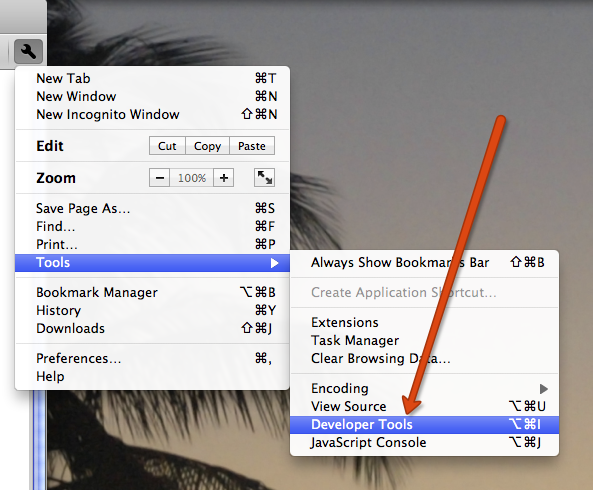
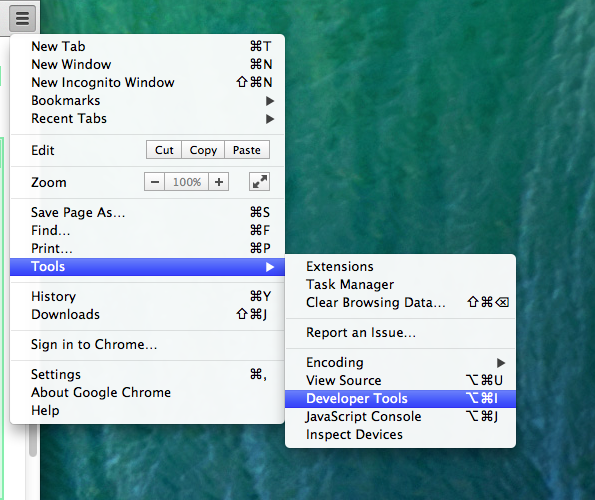
Updates Audit Panel article

diff --git a/content/tutorials/developertools/auditpanel/en/index.html b/content/tutorials/developertools/auditpanel/en/index.html
@@ -24,6 +24,11 @@
   article section img {
     border: 1px solid #ccc;
   }
+
+  .talkinghead:before {
+    background-image: url(/static/images/profiles/75/addyosmani.75.png);
+    background-position: -14px -9px !important;
+  }
 </style>
 {% endblock %}
 
@@ -32,51 +37,54 @@
 {% block content %}
 <h2 id="toc-intro">Introduction</h2>
 
+<blockquote class="commentary talkinghead" id="pagespeed-extension"><strong>Update</strong>: Feel free to use the DevTools Audits Panel, but for hunting down serious performance issues, you'll find the records from the <a href="https://developers.google.com/speed/pagespeed/insights_extensions">Pagespeed Insights DevTools extension</a> more useful.</blockquote>
+
 <p>
   A fast web app is a successful web app.  Your job as a developer is not done until you have optimized both the real and perceived performance of your app.  Not only is it simply the right thing to do to ensure your users have an excellent experience, but there are very practical and important business reasons to optimize.  Amazon measured a 1% drop in sales for every 100ms of site latency, and Google measured a 20% drop in traffic for every 0.5 second delay (<a href="http://www.scribd.com/doc/4970486/Make-Data-Useful-by-Greg-Linden-Amazoncom">citation</a>).  Those are real numbers with real implications for your business and web app.
 </p>
 
 <p>
-  Web speed is so important, Google even has an entire effort devoted to <a href="http://code.google.com/speed/">making the web faster</a>.  If you need yet another reason to optimize your app performance, <a href="http://googlewebmastercentral.blogspot.com/2010/04/using-site-speed-in-web-search-ranking.html">Google has announced they are adding page speed to their ranking algorithm</a>.
+  Web speed is so important, Google even has an entire effort devoted to <a href="http://code.google.com/speed/">making the web faster</a>.  If you need yet another reason to optimize your app performance, <a href="http://googlewebmastercentral.blogspot.com/2010/04/using-site-speed-in-web-search-ranking.html">Google announced page speed was added to their ranking algorithm</a>.
 </p>
 
 <p>
   There are many published best practices for optimizing the performance of your web app, including two great books (<a href="http://oreilly.com/catalog/9780596529307/">High Performance Web Sites</a> and <a href="http://oreilly.com/catalog/9780596522308/">Even Faster Web Sites</a>).  Techniques on the server (implement the correct cache control headers) and on the client (provide image width and height attributes) are combined into an end to end strategy for optimizing performance.  With so many tips and tricks, it's sometimes difficult to gauge how they all map to real life and your real web app.
 </p>
 
-Luckily, the Chrome Developer Tools (included in every instance of Chrome), provides an excellent tool which inspects your web app and offers customized recommendations to enhance performance and reduce latency.  This article will cover the Audit Panel, which is similar in scope to the very popular <a href="http://developer.yahoo.com/yslow/">YSlow</a> tool, and how you can use it to speed up your website, decrease latency, and increase user satisfaction.
+<p>
+Luckily, the <a href="http://devtools.chrome.com">Chrome DevTools</a> (included in every instance of Chrome), provides an excellent tool which inspects your web app and offers customized recommendations to enhance performance and reduce latency.  This article will cover the Audits Panel, which is similar in scope to the very popular <a href="http://developer.yahoo.com/yslow/">YSlow</a> tool, and how you can use it to speed up your website, decrease latency, and increase user satisfaction.
 </p>
 
 <p>
-Note, the Audit Panel tool is currently only available in Chrome, but we expect that other WebKit browsers will eventually integrate it.
+Note, the Audits Panel tool is currently only available in Chrome, but we expect that other WebKit browsers will eventually integrate it.
 </p>
 
 <h2 id="toc-getting-started">Getting Started</h2>
 
 <p>
-  To illustrate how the Audit Panel can recommend web app performance improvements, we'll turn the tool towards our very own <a href="http://www.html5rocks.com/">www.html5rocks.com</a>.  We'll use the Audit Panel to help make our site even faster.
+  To illustrate how the Audits Panel can recommend web app performance improvements, we'll turn the tool towards our very own <a href="http://www.html5rocks.com/">www.html5rocks.com</a>.  We'll use the Audits Panel to help make our site even faster.
 </p>
 
 <p>
-Starting Developer Tools is as easy as using the wrench icon (upper right of the Chrome window) and selecting Tool, Developer Tools.
+Starting DevTools is as easy as using the Chrome icon (upper right of the Chrome window) and selecting Tools > Developer Tools.
 </p>
 
 <figure class="center">
   <img src="/static/images/screenshots/auditpanel/index.001.png" width="593" height="490">
-  <figcaption>The Developer Tools are accessible in the Wrench menu.</figcaption>
+  <figcaption>The DevTools are accessible in the Chrome menu.</figcaption>
 </figure>
 
 <p>
-  For more information on how to get started with Developer Tools, please read <a href="http://www.html5rocks.com/tutorials/developertools/part1/">Introduction to Chrome Developer Tools, Part One</a>.
+  For more information on how to get started with DevTools, please read <a href="http://devtools.chrome.com">the official documentation</a>.
 </p>
 
 <p>
-The Audit Panel is located in the main tools button panel.  You'll notice that, once selected, the Audit Panel has not yet run through its analysis of your web app.  Running all of the heuristics can be slow, especially for a large web app such as GMail, so the tool is disabled by default.
+The Audits Panel is located in the main tools button panel.  You'll notice that, once selected, the Audits Panel has not yet run through its analysis of your web app.  Running all of the heuristics can be slow, especially for a large web app such as GMail, so the tool is disabled by default.
 </p>
 
 <figure class="center">
-  <img src="/static/images/screenshots/auditpanel/index.002.png" width="458" height="373">
-  <figcaption>Audit Panel</figcaption>
+  <img src="/static/images/screenshots/auditpanel/index.002.png">
+  <figcaption>Audits Panel</figcaption>
 </figure>
 
 <p>
@@ -84,12 +92,12 @@ The Audit Panel is located in the main tools button panel.  You'll notice that, 
 </p>
 
 <figure class="center">
-  <img src="/static/images/screenshots/auditpanel/index.003.png" width="492" height="251">
-  <figcaption>Recommendations of performance improvements from the Audit Panel.</figcaption>
+  <img src="/static/images/screenshots/auditpanel/index.003.png">
+  <figcaption>Recommendations of performance improvements from the Audits Panel.</figcaption>
 </figure>
 
 <p>
-  You'll notice that the Audit Panel classifies the suggestions by severity, with the most severe marked with a red dot, and the medium severity suggestions marked with a yellow dot.  This color coding helps you prioritize the suggestions, focusing on the most important (and biggest gains) first.
+  You'll notice that the Audits Panel classifies the suggestions by severity, with the most severe marked with a red dot, and the medium severity suggestions marked with a yellow dot.  This color coding helps you prioritize the suggestions, focusing on the most important (and biggest gains) first.
 </p>
 
 <p>
@@ -103,11 +111,11 @@ The number in parenthesis, following the suggestion, is how many instances the A
 </p>
 
 <p>
-  The Audit Panel groups its suggestions into two categories, Network Utilization and Web Page Performance.
+  The Audits Panel groups its suggestions into two categories, Network Utilization and Web Page Performance.
 </p>
 
 <p>
-According to the Audit Panel, to improve Network Utilization we should:
+According to the Audits Panel, to improve Network Utilization we should:
 </p>
 
 <ul>
@@ -138,8 +146,8 @@ According to the Audit Panel, to improve Network Utilization we should:
 </p>
 
 <figure class="center">
-  <img src="/static/images/screenshots/auditpanel/index.004.png" width="501" height="376">
-  <figcaption>The Audit Panel gives you recommendations for performance improvements.</figcaption>
+  <img src="/static/images/screenshots/auditpanel/index.004.png">
+  <figcaption>The Audits Panel gives you recommendations for performance improvements.</figcaption>
 </figure>
 
 <ul>
@@ -161,7 +169,7 @@ According to the Audit Panel, to improve Network Utilization we should:
 <h2 id="toc-fixing-non-cacheable-resources">Fixing Non-Cacheable Resources</h2>
 
 <p>
-  Let's look at one recommendation in depth, and learn how to connect the Audit recommendation to other tools inside Developer Tools.  Specifically, let's look at how to fix "the following resources are explicitly non-cacheable."
+  Let's look at one recommendation in depth, and learn how to connect the Audit recommendation to other tools inside DevTools.  Specifically, let's look at how to fix "the following resources are explicitly non-cacheable."
 </p>
 
 <p>
@@ -169,12 +177,12 @@ Because caching is accomplished via the HTTP protocol, we need to look at the HT
 </p>
 
 <figure class="center">
-  <img src="/static/images/screenshots/auditpanel/index.005.png" width="456" height="418">
+  <img src="/static/images/screenshots/auditpanel/index.005.png">
   <figcaption>Navigating the recommendations.</figcaption>
 </figure>
 
 <p>
-  You are then taken to the Resources Panel with the contents of the resources in view.  Click the Headers tab, next to Content, to view the headers used in the request and the response.
+  You are then taken to the Network, Resources or Sources panel (depending on the type of resource clicked) with further information. In this case we will be taken to the Network panel.
 </p>
 
 <figure class="center">
@@ -183,11 +191,11 @@ Because caching is accomplished via the HTTP protocol, we need to look at the HT
 </figure>
 
 <p>
-  We are trying to confirm that the server has told the client "do not cache the homepage of html5rocks.com".  To do this, we need to look at the Response Headers, as these are the headers and instructions sent by the server.
+  We are trying to confirm that the server has told the client "do not cache the homepage of html5rocks.com".  To do this, we click on the resource to look at the Response Headers, as these are the headers and instructions sent by the server.
 </p>
 
 <figure class="center">
-  <img src="/static/images/screenshots/auditpanel/index.007.png" width="478" height="384">
+  <img src="/static/images/screenshots/auditpanel/index.007.png">
   <figcaption>Example: The <code>Cache-Control</code> header.</figcaption>
 </figure>
 
@@ -200,7 +208,7 @@ Because caching is accomplished via the HTTP protocol, we need to look at the HT
 </p>
 
 <p>
-This is exactly why the Audit Panel recommends enabling caching, because otherwise the server and client are sending potentially redundant information.
+This is exactly why the Audits Panel recommends enabling caching, because otherwise the server and client are sending potentially redundant information.
 </p>
 
 <p>
@@ -210,11 +218,11 @@ Now that we have confirmed the root cause of the Audit suggestion, how do we fix
 <h2 id="suggestions">Suggestions Are Just That, Suggestions</h2>
 
 <p>
-  Remember that the Audit Panel is recommending improvements based on generic heuristics.  It is applying best practices, learned over many years, to your specific web app.  Most of the time, these recommendations are spot on and should be taken to heart.
+  Remember that the Audits Panel is recommending improvements based on generic heuristics.  It is applying best practices, learned over many years, to your specific web app.  Most of the time, these recommendations are spot on and should be taken to heart.
 </p>
 
 <p>
-However, there are a few cases where the recommendation may be correct but may not actually lead to any improvement.  For example, if your page only has a single large image, the Audit Panel would recommend adding width and height attributes to the &lt;img&gt; tag (so that the rendering engine knows the image dimensions without having to download and inspect the image).  While this is generally great advice, it won't help much if the image is the only element on the page.
+However, there are a few cases where the recommendation may be correct but may not actually lead to any improvement.  For example, if your page only has a single large image, the Audits Panel would recommend adding width and height attributes to the &lt;img&gt; tag (so that the rendering engine knows the image dimensions without having to download and inspect the image).  While this is generally great advice, it won't help much if the image is the only element on the page.
 </p>
 
 <p>
@@ -224,6 +232,6 @@ Remember to apply these suggestions after you understand them.  And don't forget
 <h2 id="toc-summary">Summary</h2>
 
 <p>
-  The Audit Panel is an excellent and easy to use tool that will quickly show you how to optimize the performance of your web app.  Speed is a crucial web app attribute, as many companies have found direct correlations between performance and revenue or activity.  Optimizing your app's performance is not just the right thing to do for your users, but it is the right thing to do for your business's bottom line.
+  The Audits Panel is an excellent and easy to use tool that will quickly show you how to optimize the performance of your web app.  Speed is a crucial web app attribute, as many companies have found direct correlations between performance and revenue or activity.  Optimizing your app's performance is not just the right thing to do for your users, but it is the right thing to do for your business's bottom line.
 </p>
 {% endblock %}
